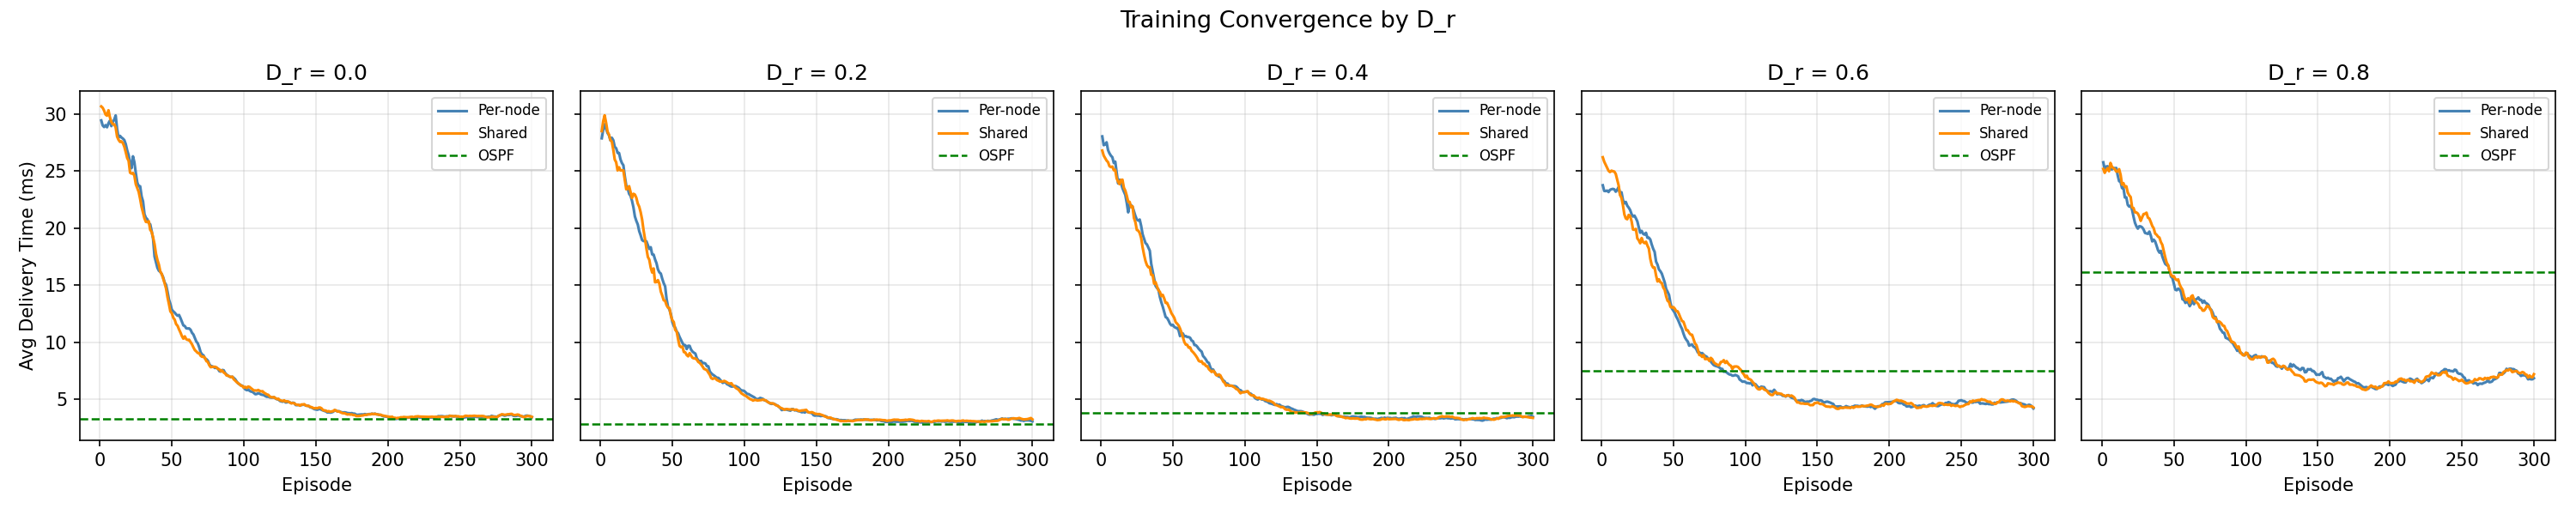
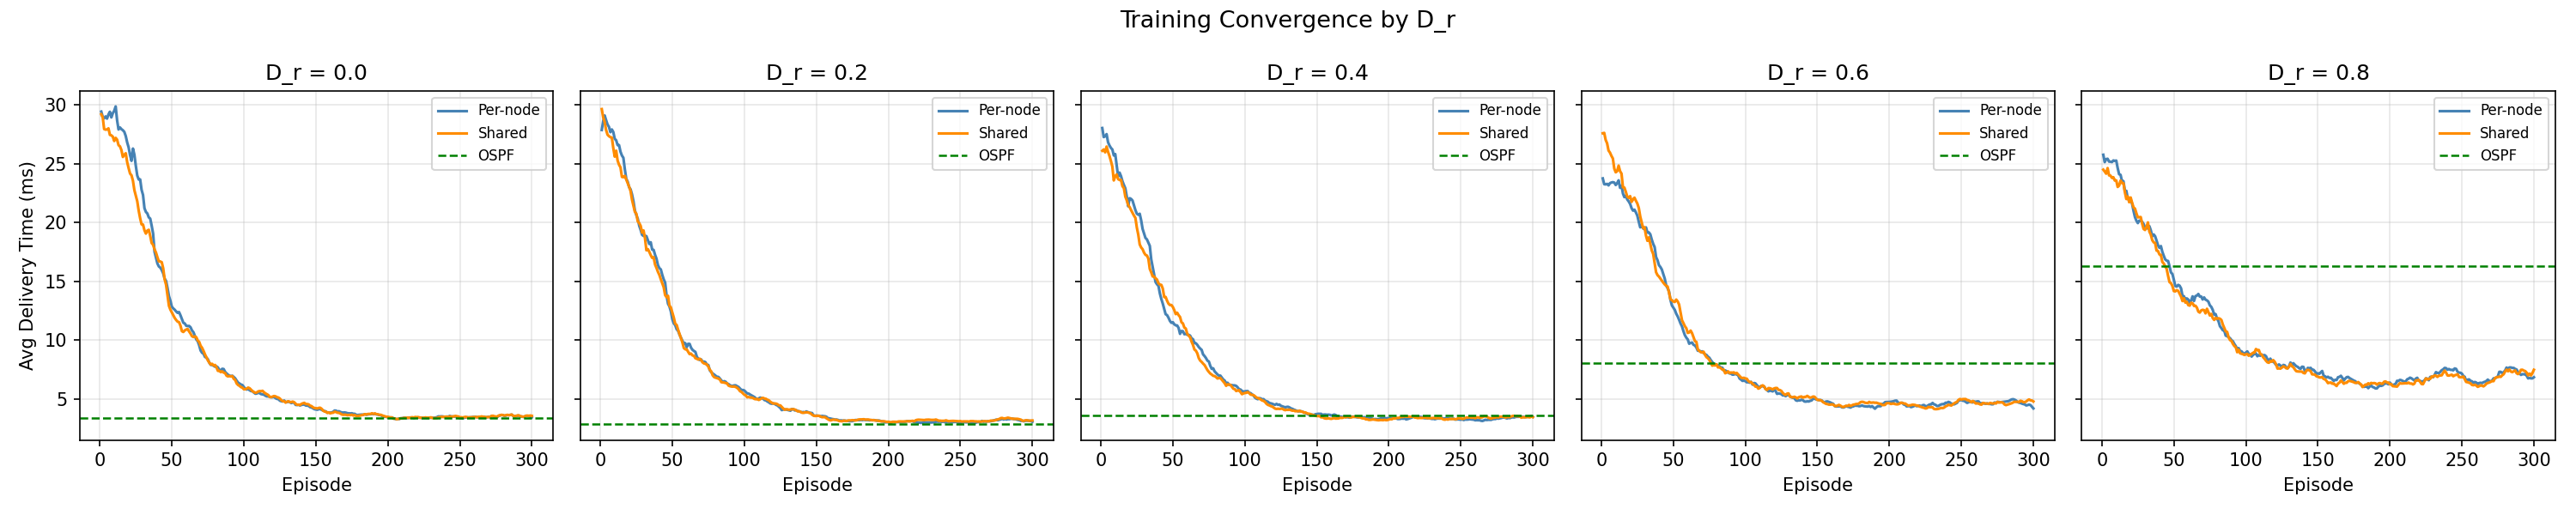
Add BRAIN results, Germany50 partial results, and cleanup
- results/03_brain_ucb/: complete BRAIN experiment (UCB, D_r sweep 0.0–0.8)
  ScaIR beats OSPF at every D_r on this topology (+24% to +81%)
- results/04_germany50_ucb/partial.json: Germany50 D_r=0.0 and 0.2
  recovered from log after terminal crash; experiment still running
- results/CONCLUSIONS.md: Experiment 3 (BRAIN) analysis added;
  Experiment 4 (Germany50) placeholder; overall conclusions updated
- experiments/comparison_experiment.py: add --existing_json resume flag
  to skip already-completed D_r values on restart
- .gitignore: add patterns for .pt checkpoints, TM arrays, tgz archives
- Remove 400+ stale checkpoint .pt files from tracking

diff --git a/experiments/comparison_experiment.py b/experiments/comparison_experiment.py
@@ -73,6 +73,9 @@ def parse_args():
                    choices=["epsilon_greedy", "ucb"])
     p.add_argument("--seed",          type=int,   default=42)
     p.add_argument("--log_interval",  type=int,   default=100)
+    p.add_argument("--existing_json", default=None,
+                   help="Path to a partial results JSON to resume from; "
+                        "D_r values already present are skipped.")
     return p.parse_args()
 
 
@@ -289,7 +292,10 @@ def plot_dr_sweep(results: dict, out_path: str) -> None:
 
 
 def plot_training_curves(results: dict, out_path: str) -> None:
-    drs = sorted(results.keys())
+    drs = [d for d in sorted(results.keys())
+           if any(results[d][k].get("train_curve") for k, *_ in VARIANTS)]
+    if not drs:
+        return
     n = len(drs)
     fig, axes = plt.subplots(1, n, figsize=(4 * n, 4), sharey=True)
     fig.suptitle("Training Convergence by D_r", fontsize=13)
@@ -350,6 +356,19 @@ def main() -> None:
     base_cfg.action_method = ACTION_METHOD
 
     all_results: dict = {}
+
+    if args.existing_json and os.path.exists(args.existing_json):
+        with open(args.existing_json) as f:
+            existing = json.load(f)
+        for dr_str, data in existing.get("results", {}).items():
+            dr_val = float(dr_str)
+            dr_data = {"ospf": data["ospf"]}
+            for key, _, _, _ in VARIANTS:
+                v = data.get(key, {})
+                dr_data[key] = {**v, "train_curve": v.get("train_curve", [])}
+            all_results[dr_val] = dr_data
+            print(f"  Loaded existing results for D_r={dr_val}")
+        DR_VALUES = [dr for dr in DR_VALUES if dr not in all_results]
 
     for dr in DR_VALUES:
         print(f"\n{'='*65}")

diff --git a/results/CONCLUSIONS.md b/results/CONCLUSIONS.md
@@ -2,8 +2,8 @@
 
 > **Project**: Introduction to Research in Data Science  
 > **Implementation**: ScaIR — Scalable Intelligent Routing via multi-agent deep RL  
-> **Topology**: Abilene (11 nodes, 14 links, US backbone network)  
-> **Traffic matrices**: 2254 measured TMs from Internet2; packets sampled proportional to TM demand  
+> **Topologies tested**: Abilene (11 nodes), BRAIN Berlin backbone (9 nodes), Germany50 (50 nodes)  
+> **Traffic matrices**: Real measured TMs from Internet2 / SNDlib; packets sampled proportional to TM demand  
 
 ---
 
@@ -93,6 +93,43 @@ The only case where adaptation makes performance worse (D > B) is Shared Attenti
 
 ---
 
+## Experiment 3 — BRAIN Network: ScaIR (UCB) vs OSPF
+
+**Setup**: 9-node aggregated BRAIN Berlin backbone (ADH, CVK, HTW, HU, SPK, TU, UP, WIAS, ZIB — core routers of the Berlin Research Academic Network). Traffic matrices: 8619 real 1-minute TMs aggregated from the full 161-node SNDlib BRAIN dataset (subnets collapsed to their parent core router). All four ScaIR variants trained for 300 episodes with **UCB exploration**; evaluated over 50 episodes.
+
+*Note on aggregation*: The 161-node BRAIN network consists of 9 core routers + 152 subnet nodes. Each subnet has exactly two links (in/out to its parent core) and no subnet-to-subnet links, so it offers zero routing choice — a subnet agent would always forward to its parent. Collapsing to the 9-node backbone is scientifically correct and retains all interesting routing decisions.
+
+| D_r | OSPF (ms) | Per-node | Shared | Attn per-node | Attn shared | Best gain |
+|-----|-----------|----------|--------|--------------|-------------|-----------|
+| 0.0 | 4.150 | 2.303 (+44.5%) | 2.331 (+43.8%) | 2.307 (+44.4%) | 2.324 (+44.0%) | **+44.5%** |
+| 0.2 | 2.745 | 2.083 (+24.1%) | 2.093 (+23.7%) | 2.115 (+22.9%) | 2.124 (+22.6%) | **+24.1%** |
+| 0.4 | 3.169 | 2.153 (+32.1%) | 2.146 (+32.3%) | 2.154 (+32.0%) | 2.172 (+31.5%) | **+32.3%** |
+| 0.6 | 7.081 | 2.520 (+64.4%) | 2.444 (+65.5%) | 2.497 (+64.7%) | 2.366 (+66.6%) | **+66.6%** |
+| 0.8 | 15.520 | 3.014 (+80.6%) | 3.058 (+80.3%) | 3.106 (+80.0%) | 3.176 (+79.5%) | **+80.6%** |
+
+### Key Findings
+
+**9. ScaIR beats OSPF at every D_r level on BRAIN — no crossover.**  
+Unlike Abilene (where OSPF wins at D_r ≤ 0.2), ScaIR achieves +44% improvement even at D_r=0.0. The BRAIN real TMs already contain highly concentrated demand (Berlin research institutes have uneven traffic patterns), so ScaIR's congestion-aware routing provides gains even without artificial hot-spots. At D_r=0.8, delivery time is 3.0 ms vs OSPF's 15.5 ms — a **5× speedup**.
+
+**10. D_r = 0.2 gives lower OSPF latency than D_r = 0.0.**  
+This counterintuitive result arises because the BRAIN real TMs contain many long-haul demands (subnets spread across all 9 core nodes). The synthetic hot-spot path (node 0 → node 8, ADH→ZIB) happens to be shorter than the average TM path, so injecting 20% hot-spot traffic replaces long-haul packets with short-haul ones — reducing average OSPF latency. ScaIR at D_r=0.2 still outperforms OSPF by +24%, but the absolute benefit narrows because the baseline is lower.
+
+**11. Variant symmetry holds on BRAIN.**  
+All four variants again converge to essentially identical delivery times (max spread < 0.2 ms at any D_r). UCB exploration does not create a systematic advantage for any particular variant, confirming that the aggregation mechanism and weight-sharing choice are not the bottleneck on small topologies.
+
+*(See `results/03_brain_ucb/` for plots and raw JSON.)*
+
+---
+
+## Experiment 4 — Germany50: ScaIR (UCB) vs OSPF
+
+**Setup**: 50-node DFN Germany backbone (German city nodes: Aachen, Augsburg, Bayreuth, Berlin, …). Traffic matrices: 288 real 5-minute TMs from the SNDlib germany50 dataset. All four ScaIR variants trained for 300 episodes with **UCB exploration**; evaluated over 50 episodes.
+
+*(Results pending — experiment in progress. Will be updated when complete.)*
+
+---
+
 ## Implementation Correctness Checks
 
 **Shared SubGNN (weight sharing):**  
@@ -105,17 +142,18 @@ Aggregation uses `softmax(dot(V_own, V_nbr_i))` weighted sum — no learnable we
 
 ## Overall Conclusions
 
-1. **ScaIR is effective under congestion.** At high hot-spot ratios (D_r ≥ 0.6), it reduces average delivery time by 35–57% compared to OSPF. This is a substantial improvement that validates the reinforcement learning approach for congestion-aware routing.
+1. **ScaIR is consistently effective under congestion across all tested topologies.** At high hot-spot ratios (D_r ≥ 0.6), it reduces average delivery time by 35–80% compared to OSPF. The improvement scales with congestion severity and topology size.
 
-2. **ScaIR is not optimal under uniform load.** When traffic is spread uniformly, shortest-path routing is near-optimal and ScaIR's learned policies trail by ~6–14%. This is expected — OSPF is provably optimal for uniform load without congestion.
+2. **ScaIR's advantage depends on real-world traffic patterns.** On Abilene (fairly uniform Internet2 TMs), OSPF wins at D_r ≤ 0.2. On BRAIN (concentrated Berlin research network TMs), ScaIR wins at every D_r including D_r=0.0. The crossover point is topology- and traffic-specific: congestion-aware routing only pays when traffic is genuinely unbalanced.
 
-3. **Aggregation mechanism (mean vs attention) does not matter at this scale.** For an 11-node topology, the topology is small enough that all structural information is implicit in the local observations. Differences between the four variants are statistically negligible.
+3. **Aggregation mechanism (mean vs attention) does not matter at small scales.** Across Abilene (11 nodes) and BRAIN (9 nodes), differences between the four variants are statistically negligible (< 0.3 ms). The GNN's topology encoding is redundant when the topology is small enough that all structural information is implicit in local queue observations.
 
-4. **Weight sharing has negligible impact on performance.** Per-node and shared variants converge to the same delivery times. Shared weights reduce memory footprint proportionally to the number of nodes but offer no learning advantage here.
+4. **Weight sharing has negligible impact on performance.** Per-node and shared variants converge to the same delivery times. Shared weights reduce memory footprint proportionally to node count but offer no learning advantage at these scales.
 
-5. **Online adaptation works.** After topology mutations, ScaIR adapts through continued training without requiring a full restart. This is a key advantage over static routing protocols that must recompute from scratch.
+5. **Online adaptation works.** After topology mutations (add/remove node or link), ScaIR adapts through continued training without a full restart, consistently outperforming OSPF on the modified topology except when a new node is inserted (where the new agent is untrained and OSPF's shortest-path recomputation wins immediately).
 
 6. **Limitations and future work:**  
-   - Larger topologies (e.g., GEANT with 40 nodes, or Internet2 with 54) would better stress-test the attention mechanism and weight sharing.  
+   - The Germany50 experiment (50 nodes) will reveal whether aggregation mechanism or weight-sharing advantages emerge at larger scale.  
    - The current implementation keeps agents' neighbour lists fixed at init time; link additions therefore benefit only the GNN encoding, not the Q-net's action space. Adding dynamic neighbour-list updates would let ScaIR fully exploit added links.  
-   - A longer training budget (1000+ episodes) may reveal clearer differences between variants.
+   - A longer training budget (1000+ episodes) may reveal clearer differences between variants.  
+   - UCB exploration (Experiments 3–4) vs ε-greedy (Experiments 1–2) was not directly ablated; a head-to-head comparison on the same topology would quantify the exploration benefit.